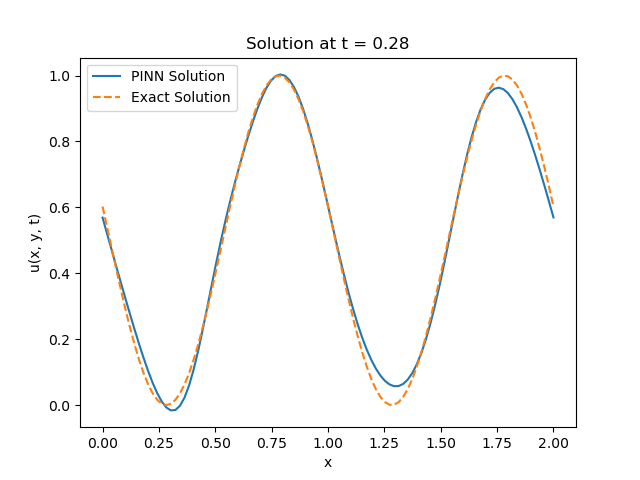
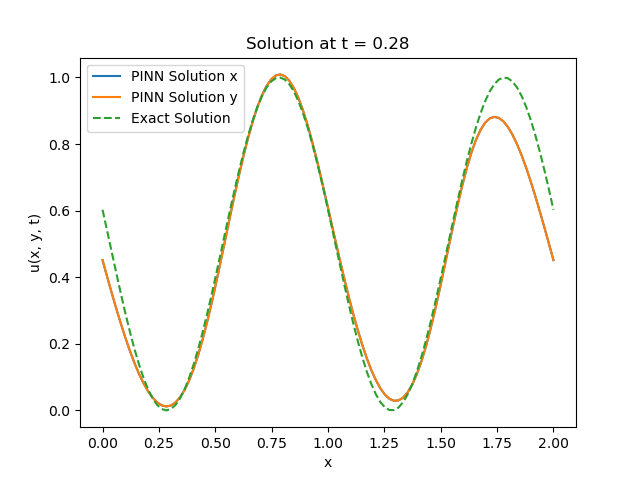
x and y plot being generated

diff --git a/mypinn.py b/mypinn.py
@@ -182,14 +182,25 @@ for i, t_val in enumerate(time_steps):
     u_exact = exact_solution(x_np, y_np, t_np, c_x, c_y)
 
     plt.figure()
-    plt.plot(x_plot.numpy(), u_pred_plot, label='PINN Solution')
+    plt.plot(x_plot.numpy(), u_pred_plot, label='PINN Solution x')
     if lplot_exact == True:
         plt.plot(x_np, u_exact, '--', label='Exact Solution')
     plt.xlabel("x")
-    plt.ylabel("u(x, y, t)")
+    plt.ylabel("u(x, t)")
     plt.title(f"Solution at t = {t_val.item():.2f}")
     plt.legend()
-    plt.savefig(os.path.join(output_dir, f"solution_t_{i:03d}epochs"+str(epochs)+".png"))
+    plt.savefig(os.path.join(output_dir, f"solution_x_t_{i:03d}epochs"+str(epochs)+".png"))
+    plt.close()
+
+    plt.figure()
+    plt.plot(y_plot.numpy(), u_pred_plot, label='PINN Solution y')
+    if lplot_exact == True:
+        plt.plot(y_np, u_exact, '--', label='Exact Solution')
+    plt.xlabel("y")
+    plt.ylabel("u(y, t)")
+    plt.title(f"Solution at t = {t_val.item():.2f}")
+    plt.legend()
+    plt.savefig(os.path.join(output_dir, f"solution_y_t_{i:03d}epochs"+str(epochs)+".png"))
     plt.close()
 
 print(f"Solution images saved in '{output_dir}'")
